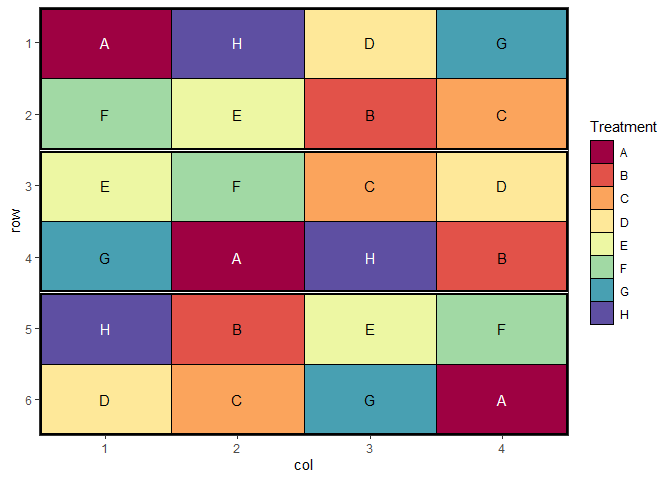
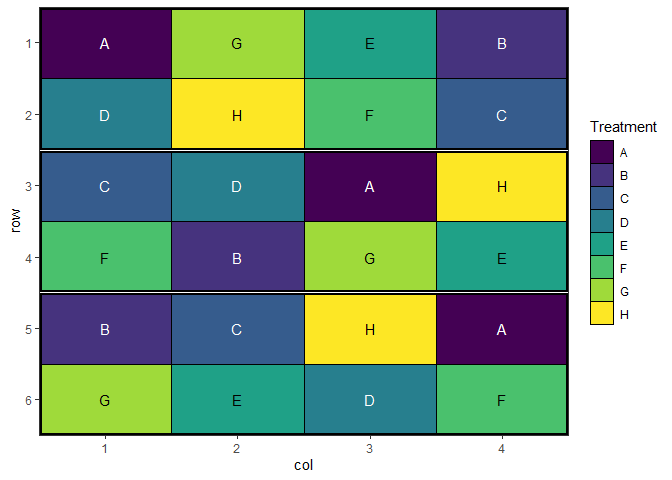
Updating Readme

diff --git a/README.md b/README.md
@@ -52,17 +52,14 @@ library(speed)
 df <- data.frame(
   row = rep(1:4, each = 3),
   col = rep(1:3, times = 4),
-  treatment = rep(LETTERS[1:4], 3)
+  treatment = rep(LETTERS[1:4], each = 3)
 )
 
-# Set seed for reproducibility
-set.seed(42)
-
-# Optimize the design
-result <- speed(df, "treatment")
-#> Iteration: 1000 Score: 1 Best: 1 Since Improvement: 734 
-#> Iteration: 2000 Score: 1 Best: 1 Since Improvement: 1734 
-#> Early stopping at iteration 2266
+# Optimize the design with seed for reproducibility
+result <- speed(df, "treatment", seed = 42)
+#> Iteration: 1000 Score: 1 Best: 1 Since Improvement: 526 
+#> Iteration: 2000 Score: 1 Best: 1 Since Improvement: 1526 
+#> Early stopping at iteration 2474
 
 # Plot the optimized design
 autoplot(result)
@@ -91,17 +88,15 @@ df <- data.frame(
   block = rep(1:3, each = 8)
 )
 
-# Set seed for reproducibility
-set.seed(42)
-
 # Optimize while respecting blocks
 result <- speed(df, 
                 "treatment",
                 swap_within = "block",
-                iterations = 5000)
-#> Iteration: 1000 Score: 2.571429 Best: 2.571429 Since Improvement: 352 
-#> Iteration: 2000 Score: 2.571429 Best: 2.571429 Since Improvement: 1352 
-#> Early stopping at iteration 2648
+                iterations = 5000,
+                seed = 42)
+#> Iteration: 1000 Score: 2.571429 Best: 2.571429 Since Improvement: 394 
+#> Iteration: 2000 Score: 2.571429 Best: 2.571429 Since Improvement: 1394 
+#> Early stopping at iteration 2606
 
 # Plot the design with block boundaries
 autoplot(result)
